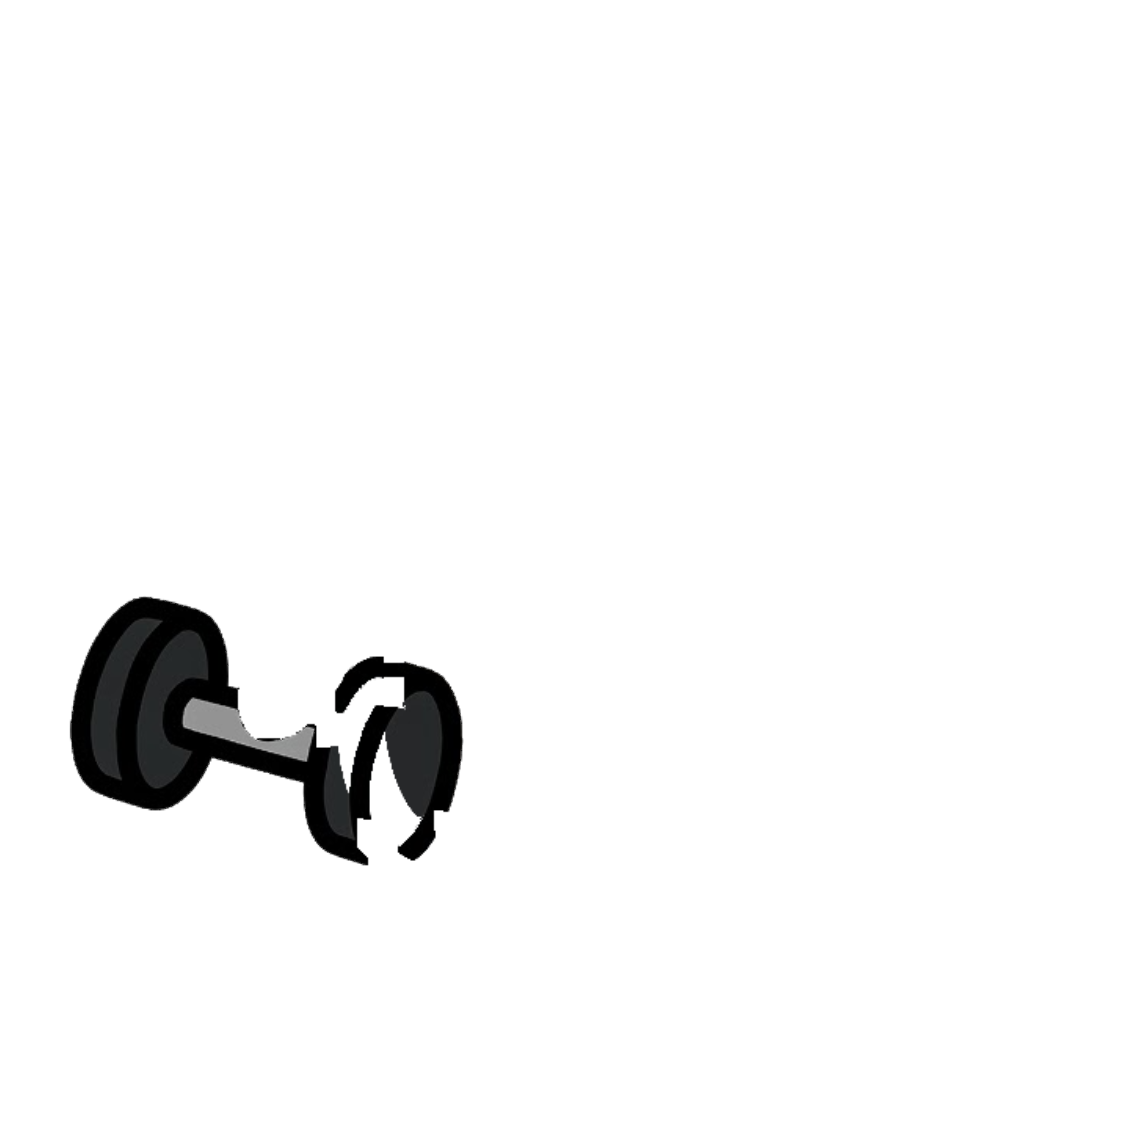
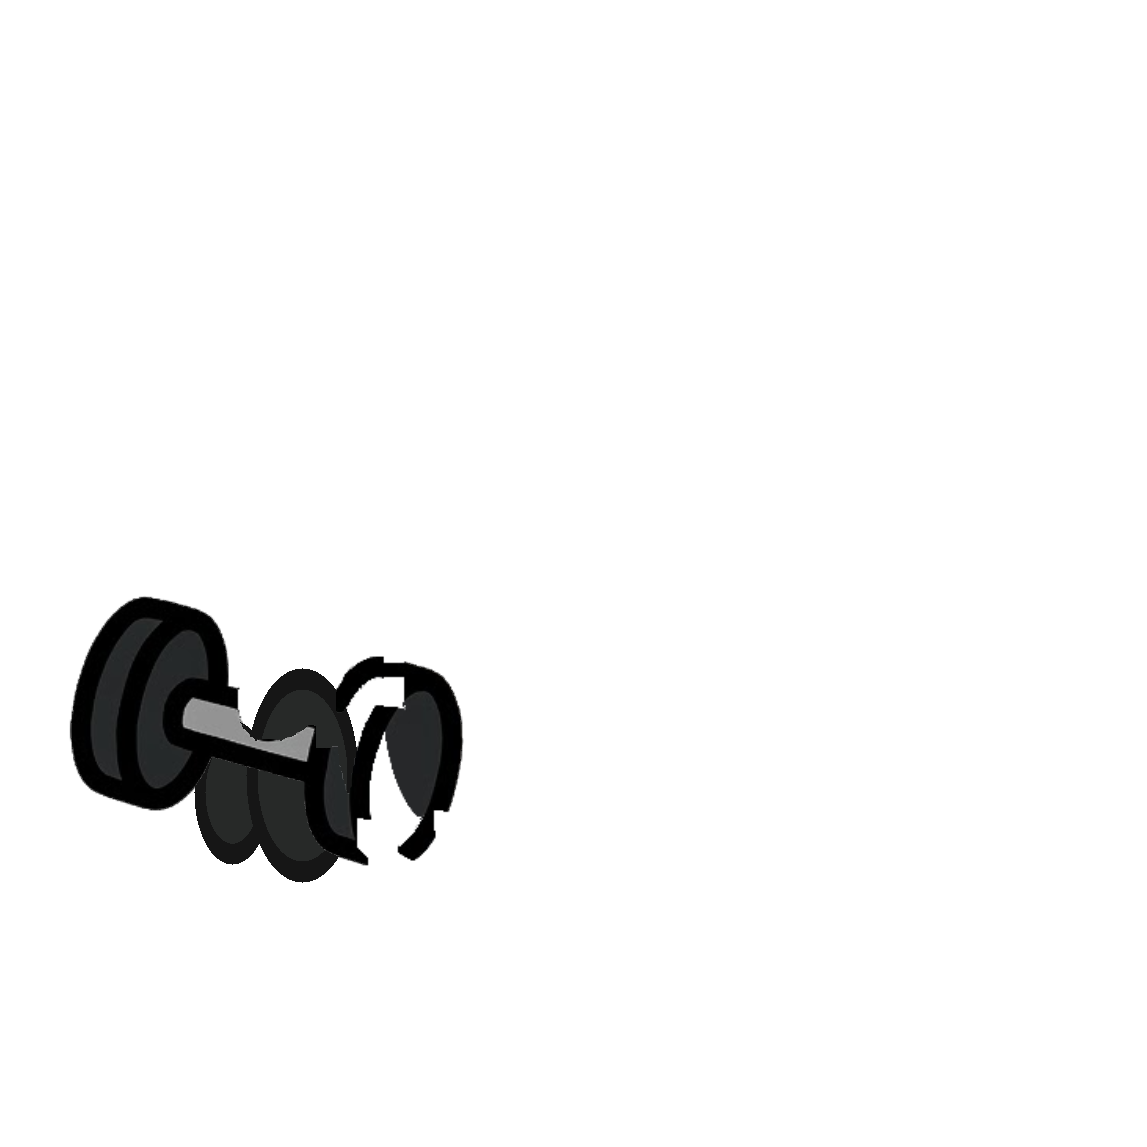
Owner pass 1 fixes: kitty mask, lab coat, bubble pipe, dumbbell
Kitty mask is fully opaque with Hello Kitty's oval eyes instead of see-through rings.
Lab coat panels no longer have PING's belly cut out of them. The bubble pipe gets an
even outline instead of an offset shadow. The dumbbell's near plates are solid, so
shirts no longer show through them.

Changed region(s): [[0.1526, 0.5798, 0.3357, 0.7934]]

diff --git a/functions/_lib.ts b/functions/_lib.ts
@@ -654,7 +654,7 @@ export const cleanPingMessage = (raw: string): string | null => {
  * a redesign gets a fresh render instead of the stored old one. Links made
  * before a bump keep resolving to the card they were made with.
  */
-export const CARD_RENDER_VERSION = 9;
+export const CARD_RENDER_VERSION = 10;
 
 /**
  * The string hashed into a share id: the render version, the traits, and the
